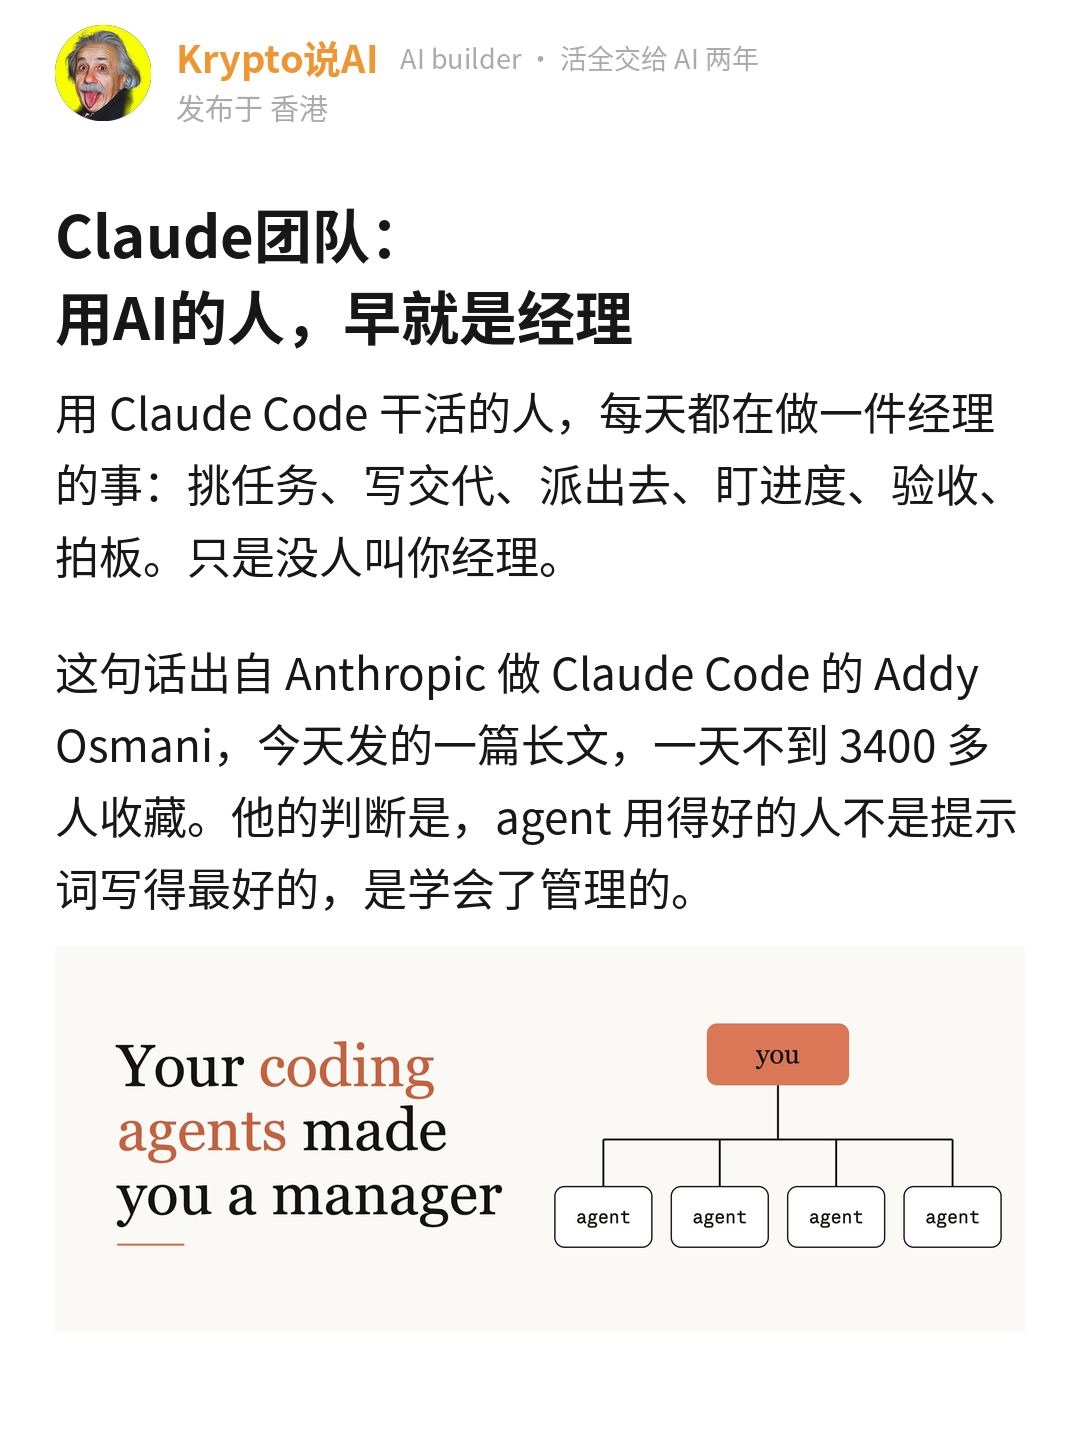
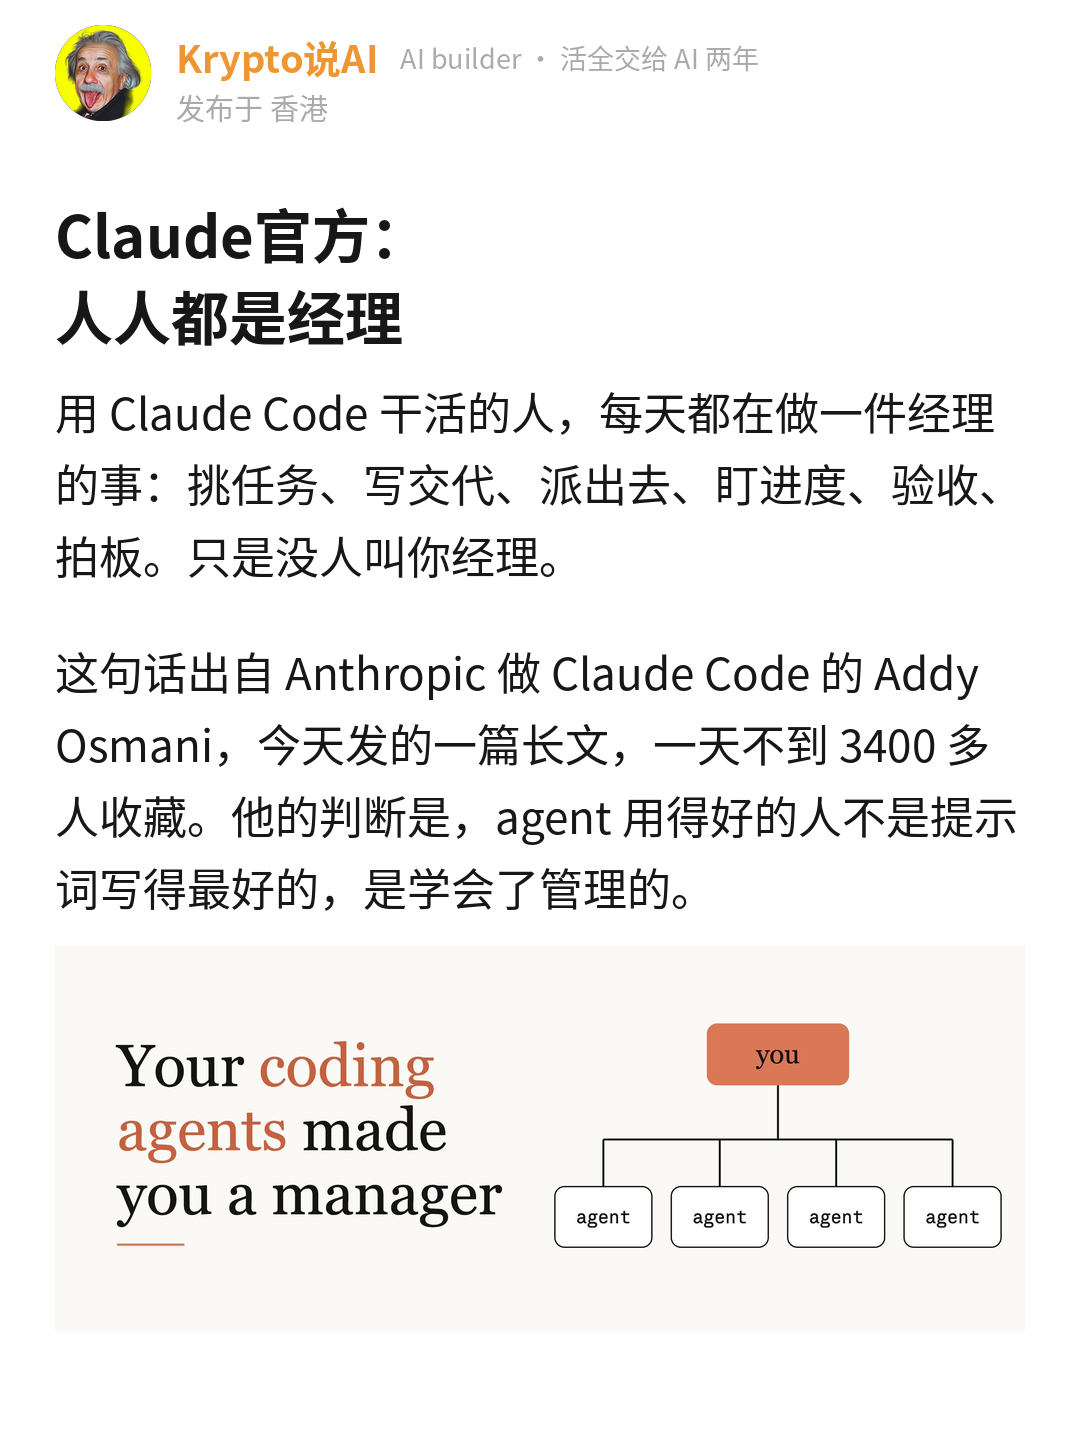
Addy 稿：标题改「Claude官方：人人都是经理」（用户定）
Claude-Session: https://claude.ai/code/session_01NaeRTdyyoHC1m4VdSav2x6

Changed region(s): [[0.0611, 0.125, 0.5806, 0.25]]

diff --git a/CLAUDE.md b/CLAUDE.md
@@ -3,7 +3,7 @@
 这个仓库是小红书账号 **Krypto说AI** 的工作区，也是它的记忆。在这里做的每一篇稿子，先读本页，再读 `账号/档案.md`、`账号/经历库.md` 和 `账号/爆文方法论.md`（10-14 起，选题 / 标题 / 首图 / 原文跟发的发前清单，交付时逐条写过没过）。每次用户说了新的经历、新的观点、新的规则，写回这两份文件并更新本页摘要，不要只留在对话里。
 
 ## 摘要
-- **11-08 Addy Osmani《Your Coding Agents Made You a Manager》稿（meme-v2 第 15 篇，观察，value 信息 + 框架，立场 D，`发布/2026-11-08_addy-osmani-managing-agents/meme-v2版/`，8 页 + 名片卡，待用户看）**：素材是用户发来的 X 长文打包（Addy Osmani，Claude Code 团队，11-08，14.8 万浏览 3447 收藏；全文 + 封面 + 头像存 `编辑用/source.md`、`shots/`）。先问走了：用户要我先解释九条，答「每多一个 agent 多分走一份注意力，这几条我都非常认可」、价值信息 + 框架、第 ④ 问断在「agent 像」，其余「你定」。按 11-08 八条模板写：门票用身份「Claude 团队」（Addy 路人不认识）；起法是主角狼狈时刻（差点合并 600 行、测试全绿、全是用户用不上的复杂度），跟上一篇（自己工作里的事）不同；五个分条的点（自己能跑的验收 / 只说它看不到的 / 纠正第二次写下来 + 只锁死不能变的 / 交任务不交判断 / 编排税）；「我」三次：四五个窗口心里一紧 → 规则文件越写越长是替模型做了它能做的判断（#40）→ 并行丢念头（#39）+ 五个里只有两个有验收；stance 进观点库 #33（归 D）；cost = 并行丢念头。图 4 张：封面图当 hero（headline + 两段 + 图在第 1 页）、`rules.png`（请求 vs 强制）、`tax.png`（编排税示意柱图）、Addy 头像在结尾前。check 0 ✗ 6 ⚠（备选标题没带 Claude Code、开头锚点 8、电报分句 4.1、「看」收尾，都留）。标题「Claude团队：用AI的人，早就是经理」（19 字，keyword Claude），备选「Claude团队：测试全绿，照样不能合」「强烈推荐Claude团队这篇长文。」「看来很多人没看懂Claude团队这篇。」。正文.txt 领取物是睡前开长任务的五个问题。八条模板逐条：门票 ✓ 身份、题材 ✓ 带 agent 的人怎么办、标题 ✓ 身份 + 反差、前两行 ✓ 主角时刻、分条 ✓ 5 点、口吻 ✓ 😅 + 心里一紧、首页 ✓ headline + 两段 + 图 / 图 4 张自绘 2、结尾 ✓ 问读者带自己的答案。用户第 ④ 问（agent 像什么）没答完。**用户看初稿退两条（11-08）**：开头写得不好（人名 + 600 行起笔，路人不认识 Addy）；后面一页全是字，**每一页至少带一个原文素材或可视化**（第五次同样要求，`账号/爆文方法论.md` 第五节第 7 条和两个 SKILL 改回硬规则，上午的「每页有图撤」收回）。改：开头换成判断起法「用 Claude Code 干活的人，每天都在做一件经理的事……只是没人叫你经理」+ 第二段 Addy 身份和文章；600 行那一幕挪到第 4 点当例子；新加 `check.png`（没验收 vs 有验收流程）、`context.png`（别写 / 要写）、`judge.png`（交给 agent / 留给人）、`quote.png`（五个 agent 一次合并冲突原话卡）、`mine.png`（我的五个 agent 只有两个有验收）、第 2 页先放头像横裁、用户说「很突兀」→ 换成 `manage.png`（经理六件事 vs 带 agent 的你 对照表）；删类比不成立那段；12 页（11 页正文 + 名片卡）每页有图。改前存 `draft_v1_人名开头_纯文字页.md`
+- **11-08 Addy Osmani《Your Coding Agents Made You a Manager》稿（meme-v2 第 15 篇，观察，value 信息 + 框架，立场 D，`发布/2026-11-08_addy-osmani-managing-agents/meme-v2版/`，8 页 + 名片卡，待用户看）**：素材是用户发来的 X 长文打包（Addy Osmani，Claude Code 团队，11-08，14.8 万浏览 3447 收藏；全文 + 封面 + 头像存 `编辑用/source.md`、`shots/`）。先问走了：用户要我先解释九条，答「每多一个 agent 多分走一份注意力，这几条我都非常认可」、价值信息 + 框架、第 ④ 问断在「agent 像」，其余「你定」。按 11-08 八条模板写：门票用身份「Claude 团队」（Addy 路人不认识）；起法是主角狼狈时刻（差点合并 600 行、测试全绿、全是用户用不上的复杂度），跟上一篇（自己工作里的事）不同；五个分条的点（自己能跑的验收 / 只说它看不到的 / 纠正第二次写下来 + 只锁死不能变的 / 交任务不交判断 / 编排税）；「我」三次：四五个窗口心里一紧 → 规则文件越写越长是替模型做了它能做的判断（#40）→ 并行丢念头（#39）+ 五个里只有两个有验收；stance 进观点库 #33（归 D）；cost = 并行丢念头。图 4 张：封面图当 hero（headline + 两段 + 图在第 1 页）、`rules.png`（请求 vs 强制）、`tax.png`（编排税示意柱图）、Addy 头像在结尾前。check 0 ✗ 6 ⚠（备选标题没带 Claude Code、开头锚点 8、电报分句 4.1、「看」收尾，都留）。标题「Claude团队：用AI的人，早就是经理」（19 字，keyword Claude），备选「Claude团队：测试全绿，照样不能合」「强烈推荐Claude团队这篇长文。」「看来很多人没看懂Claude团队这篇。」。正文.txt 领取物是睡前开长任务的五个问题。八条模板逐条：门票 ✓ 身份、题材 ✓ 带 agent 的人怎么办、标题 ✓ 身份 + 反差、前两行 ✓ 主角时刻、分条 ✓ 5 点、口吻 ✓ 😅 + 心里一紧、首页 ✓ headline + 两段 + 图 / 图 4 张自绘 2、结尾 ✓ 问读者带自己的答案。用户第 ④ 问（agent 像什么）没答完。**用户看初稿退两条（11-08）**：开头写得不好（人名 + 600 行起笔，路人不认识 Addy）；后面一页全是字，**每一页至少带一个原文素材或可视化**（第五次同样要求，`账号/爆文方法论.md` 第五节第 7 条和两个 SKILL 改回硬规则，上午的「每页有图撤」收回）。改：开头换成判断起法「用 Claude Code 干活的人，每天都在做一件经理的事……只是没人叫你经理」+ 第二段 Addy 身份和文章；600 行那一幕挪到第 4 点当例子；新加 `check.png`（没验收 vs 有验收流程）、`context.png`（别写 / 要写）、`judge.png`（交给 agent / 留给人）、`quote.png`（五个 agent 一次合并冲突原话卡）、`mine.png`（我的五个 agent 只有两个有验收）、第 2 页先放头像横裁、用户说「很突兀」→ 换成 `manage.png`（经理六件事 vs 带 agent 的你 对照表）；删类比不成立那段；12 页（11 页正文 + 名片卡）每页有图。改前存 `draft_v1_人名开头_纯文字页.md`。**用户定标题 / headline「Claude官方：人人都是经理」**（12 字），备选不变
 - **11-08 youtube-xhs 按 Better Living 五条改完（用户定「按这五条改」）**：`render_frame.py` 标题改黑体、第二行自动强调色；`compose_frame.py` 字幕压进原片底边（居中，先画一块整幅半透明矩形再叠字，中文 52 号最多两行、英文 28 号）、新增章节层（`_work/chapters.json` 或 `--chapters`，CH1 白 / CH2 强调色两行 58 号，按 start 切换，自动减掉跳过的片头；没有就提醒）、`--bg` 默认改 solid；`render_panel.shoot` 云端无头 Chromium 截不出图时退到 Playwright（Python 没装就走 Node 版）；`templates/video_frame.md` 重写版面图、字幕、章节、钩子首选「对读者说的一句话」、三条反模式；`video_post.md` 同步；SKILL 0.5 加四条门票（账号四条视频没有一条同时过名字和题材）、步骤 2 加 chapters.json 和 `章节.txt`、预览出两帧、步骤 5 和交付自查加章节。用 ffmpeg 合成的 30 秒测试片走通 preview 和整片压制（1080×1920、30fps）。还没用真素材出过一条，下一条视频按新版式出
 - **11-08 对标 Better Living（`对标/Better_Living/`，两张截图 + 拆解；用户问 youtube-xhs 视频版跟它版式差在哪）**：他们是黑底 + 两行黑体标题（第二行强调色，内容是对读者说的一句金句）+ 一行讲者身份 + 16:9 原片（字幕压在原片底边、紫色半透明底框、中英居中）+ **原片下方两行随段落切换的章节标题** + 小红书「章节」功能 + 挂课程商品。我们是模糊底 + 宋体标题（跟 10-03 黑体规矩相反）+ 讲者卡 + 字幕放原片下方左对齐无底框 + 下方空一大块。最大差别是章节标题层；但那条只有 43 赞 16 藏，版式之外先过门票（他们是 Oprah + 组织心理学家 + 「别人说我坏话该不该听」，我们四条视频没有一条同时过名字和题材）。五条改法写在拆解第三节，**没动 skill，待用户定**
 - **11-08 Anthropic agent 记忆稿（meme-v2 第 14 篇，观察，value 信息 + 行动，立场 D，`发布/2026-11-08_anthropic-agent-memory/meme-v2版/`，8 页 + 名片卡，待用户看）**：素材是用户发来的 Anthropic 11-06《The Components of Agent Memory》打包（全文 + 17 张图，存 `编辑用/source.md`、`figs/`）。先问走了，用户答：① 「skills里面确实越改越长，但是会让产出不稳定」，要我结合文章解释为什么（经历库 #40，代价 = 产出不稳定、返工）；② 反问「记忆是做什么的」；③ 信息 + 行动；④ 立场 D。起法是自己工作里正在发生的事（规则文件越改越长），跟上一篇反常事实不同；第二段宝可梦反差（413 个文件 1 徽章 vs 10 个文件 4 徽章）。四个点：记得多的输在读上（17 步没动游戏）→ 记忆是预测、只记屏幕上没有的（鲤鱼王那条规则，`what.png`）→ 死规则「只记失败」让 Opus 5 提升几乎全丢 + Claude Code 文档「指令文件越长遵守越差、只加载前 200 行」= 越长越不稳定的解释 → 错笔记三次掉悬崖、dreaming 对日志改正（`figs/ledge.png`）→ 判断（人维护两样：说清记忆为了什么、定期对日志删）→ 行动三条 → 结尾问「上一次删掉一条规矩是什么时候」。stance 进观点库 #32（归 D）。图：`figs/folders.png` 文件夹树图当 hero、`what.png` 自绘、`figs/onlyfail.png`、`figs/ledge.png`。render_illus 云端截图仍失败，用 Playwright 脚本截。check 0 ✗ 6 ⚠（数字 15 / 千字和开头 8 锚点是 413 vs 10 这组反差数、因果词 4.6、备选标题句式提示）。标题「Anthropic：规矩越长，AI越不听」，备选「强烈推荐Anthropic这篇AI记忆。」「Anthropic：AI笔记越多，玩得越差」。门票四条都过（Anthropic / 每个人给 AI 写规矩怎么办 / 名字 + 反差 / 第一句我在改规则文件）。注意：这篇「我」写的是规则文件越改越长，没写「用 skills 写图文」。**用户看初稿改三条（11-08）**：首图树图字太小看不清、第 5 页只有一张英文柱图很突兀、纯文字页都要有可视化 → 首图换自绘 `vs.png`（413 文件 1 徽章 vs 10 文件 4 徽章大数字卡，`hero_max: 400`）；英文柱图换中文 `rules.png`（三个模型丢多少 + 结论）；新加 `read.png`（17 步新建 6 删 9 动作 0）、`predict.png`（算预测 vs 不算预测）、`why.png`（规则几十条 → 三条机制 → 这次合格下次返工，回答用户第 ① 问）、`dream.png`（干活时 → 空闲时对日志 → 下一次）、`plan.png`（我的三条行动），`what.png`、`figs/ledge.png` 保留，共 9 张图 11 页（10 页正文 + 名片卡）；树图和英文柱图留在 `figs/`。改前存 `draft_v1_首图树图_第五页孤图.md`。**用户再改两条（11-08）**：标题备选要更多钩子；首页要素材里跟宝可梦实验直接相关的游戏画面 → 素材 17 张图里只有月见山悬崖那张双联图是真游戏画面，裁成左右两块（`figs/ledge_L.png` / `ledge_R.png`，英文标注用底色涂掉），做成中文标注的 `hero.png`（标题「同一个 Claude，在同一道悬崖掉了三次」，左「带着错笔记 → 一步踏下单向悬崖」右「睡一觉改了笔记 → 回头走向山洞入口」），`hero_after: 1`、`hero_max: 600`，第二段挪到图后；第 4 点里原来的 `figs/ledge.png` 去掉不重复；`vs.png` 大数字卡留着没用。标题备选扩到 7 条（AI在同一悬崖掉三次 / AI的规矩一半白写了 / 给AI的规矩别超一页 / 实验：AI笔记越多越笨 / AI睡一觉，错自己改 / 强烈推荐…），全部 20 字内、Anthropic 开头。**用户：「标题还是缺少吸引力 / 冲突感 / 钩子」** → 标题 / headline 改「Anthropic：你给AI的规矩在害它」（20 字，第一版「加的」是 21 字压掉一字；对着读者说、有冲突，跟首页第一段「我的规则文件越改越长」是同一件事），备选换成「Claude玩宝可梦，笔记越多输得越惨」「我给Claude写的规矩，一半白写了」「Anthropic打脸了我给AI写的规矩」「Claude为一条错笔记，掉了三次悬崖」「Anthropic告诉我：别教AI怎么做」，Claude 当 keyword 时也在前 6 字
